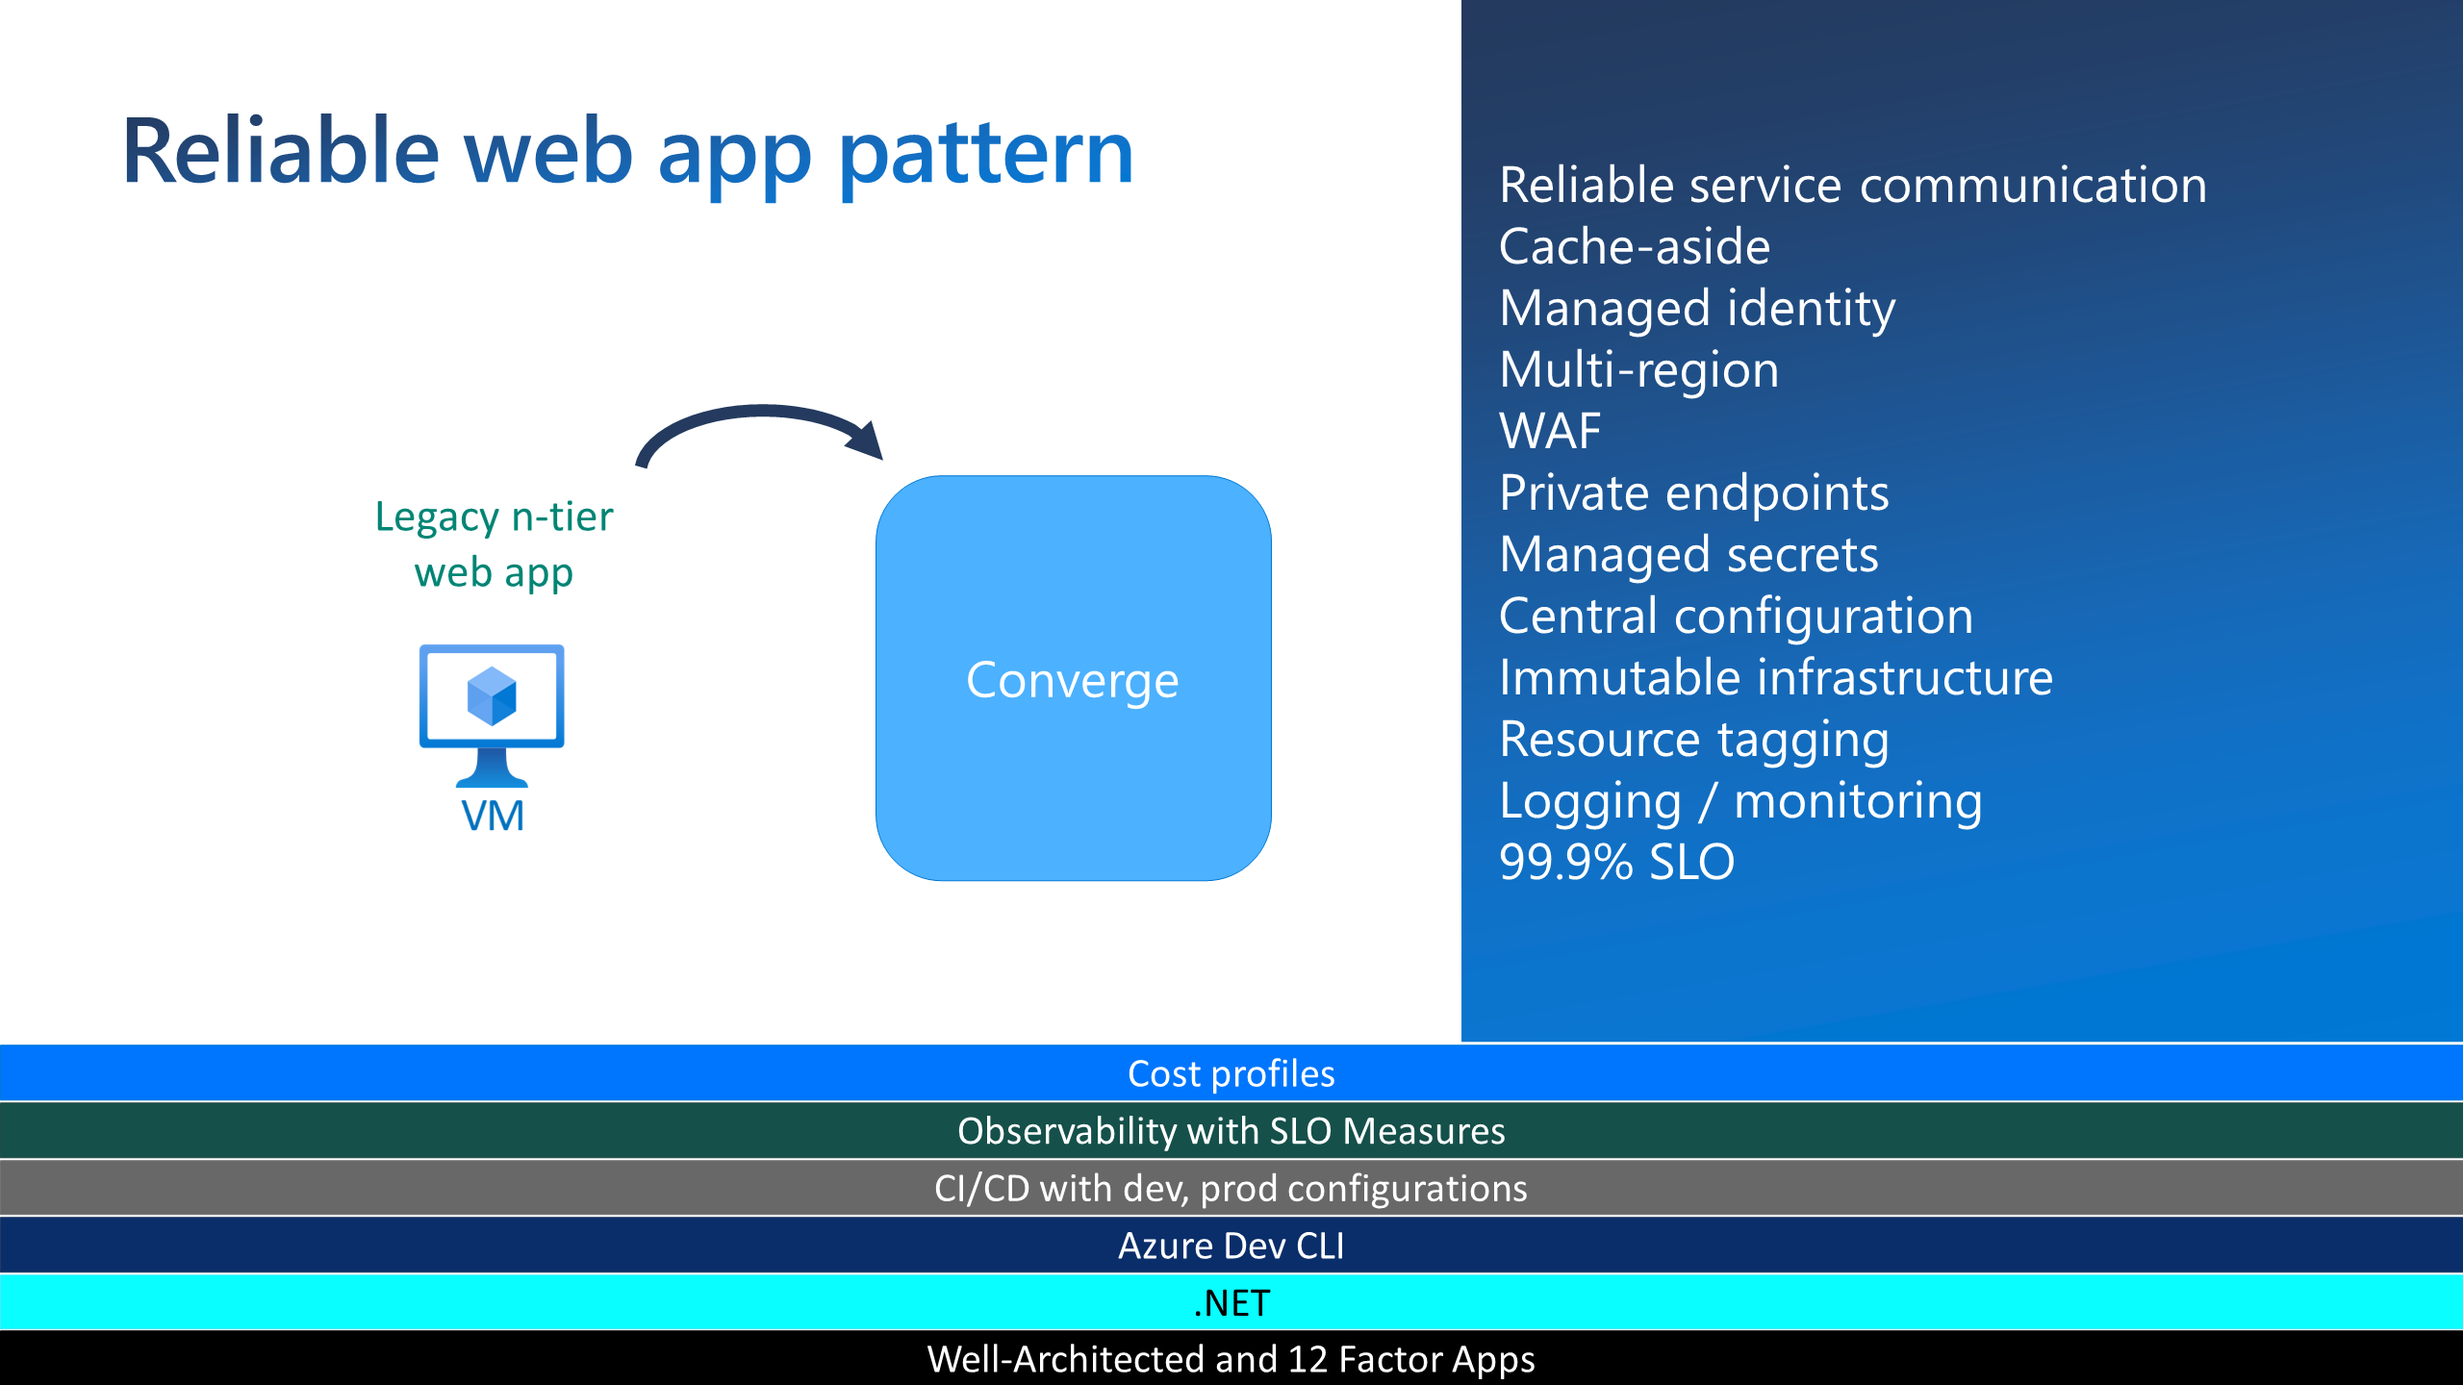
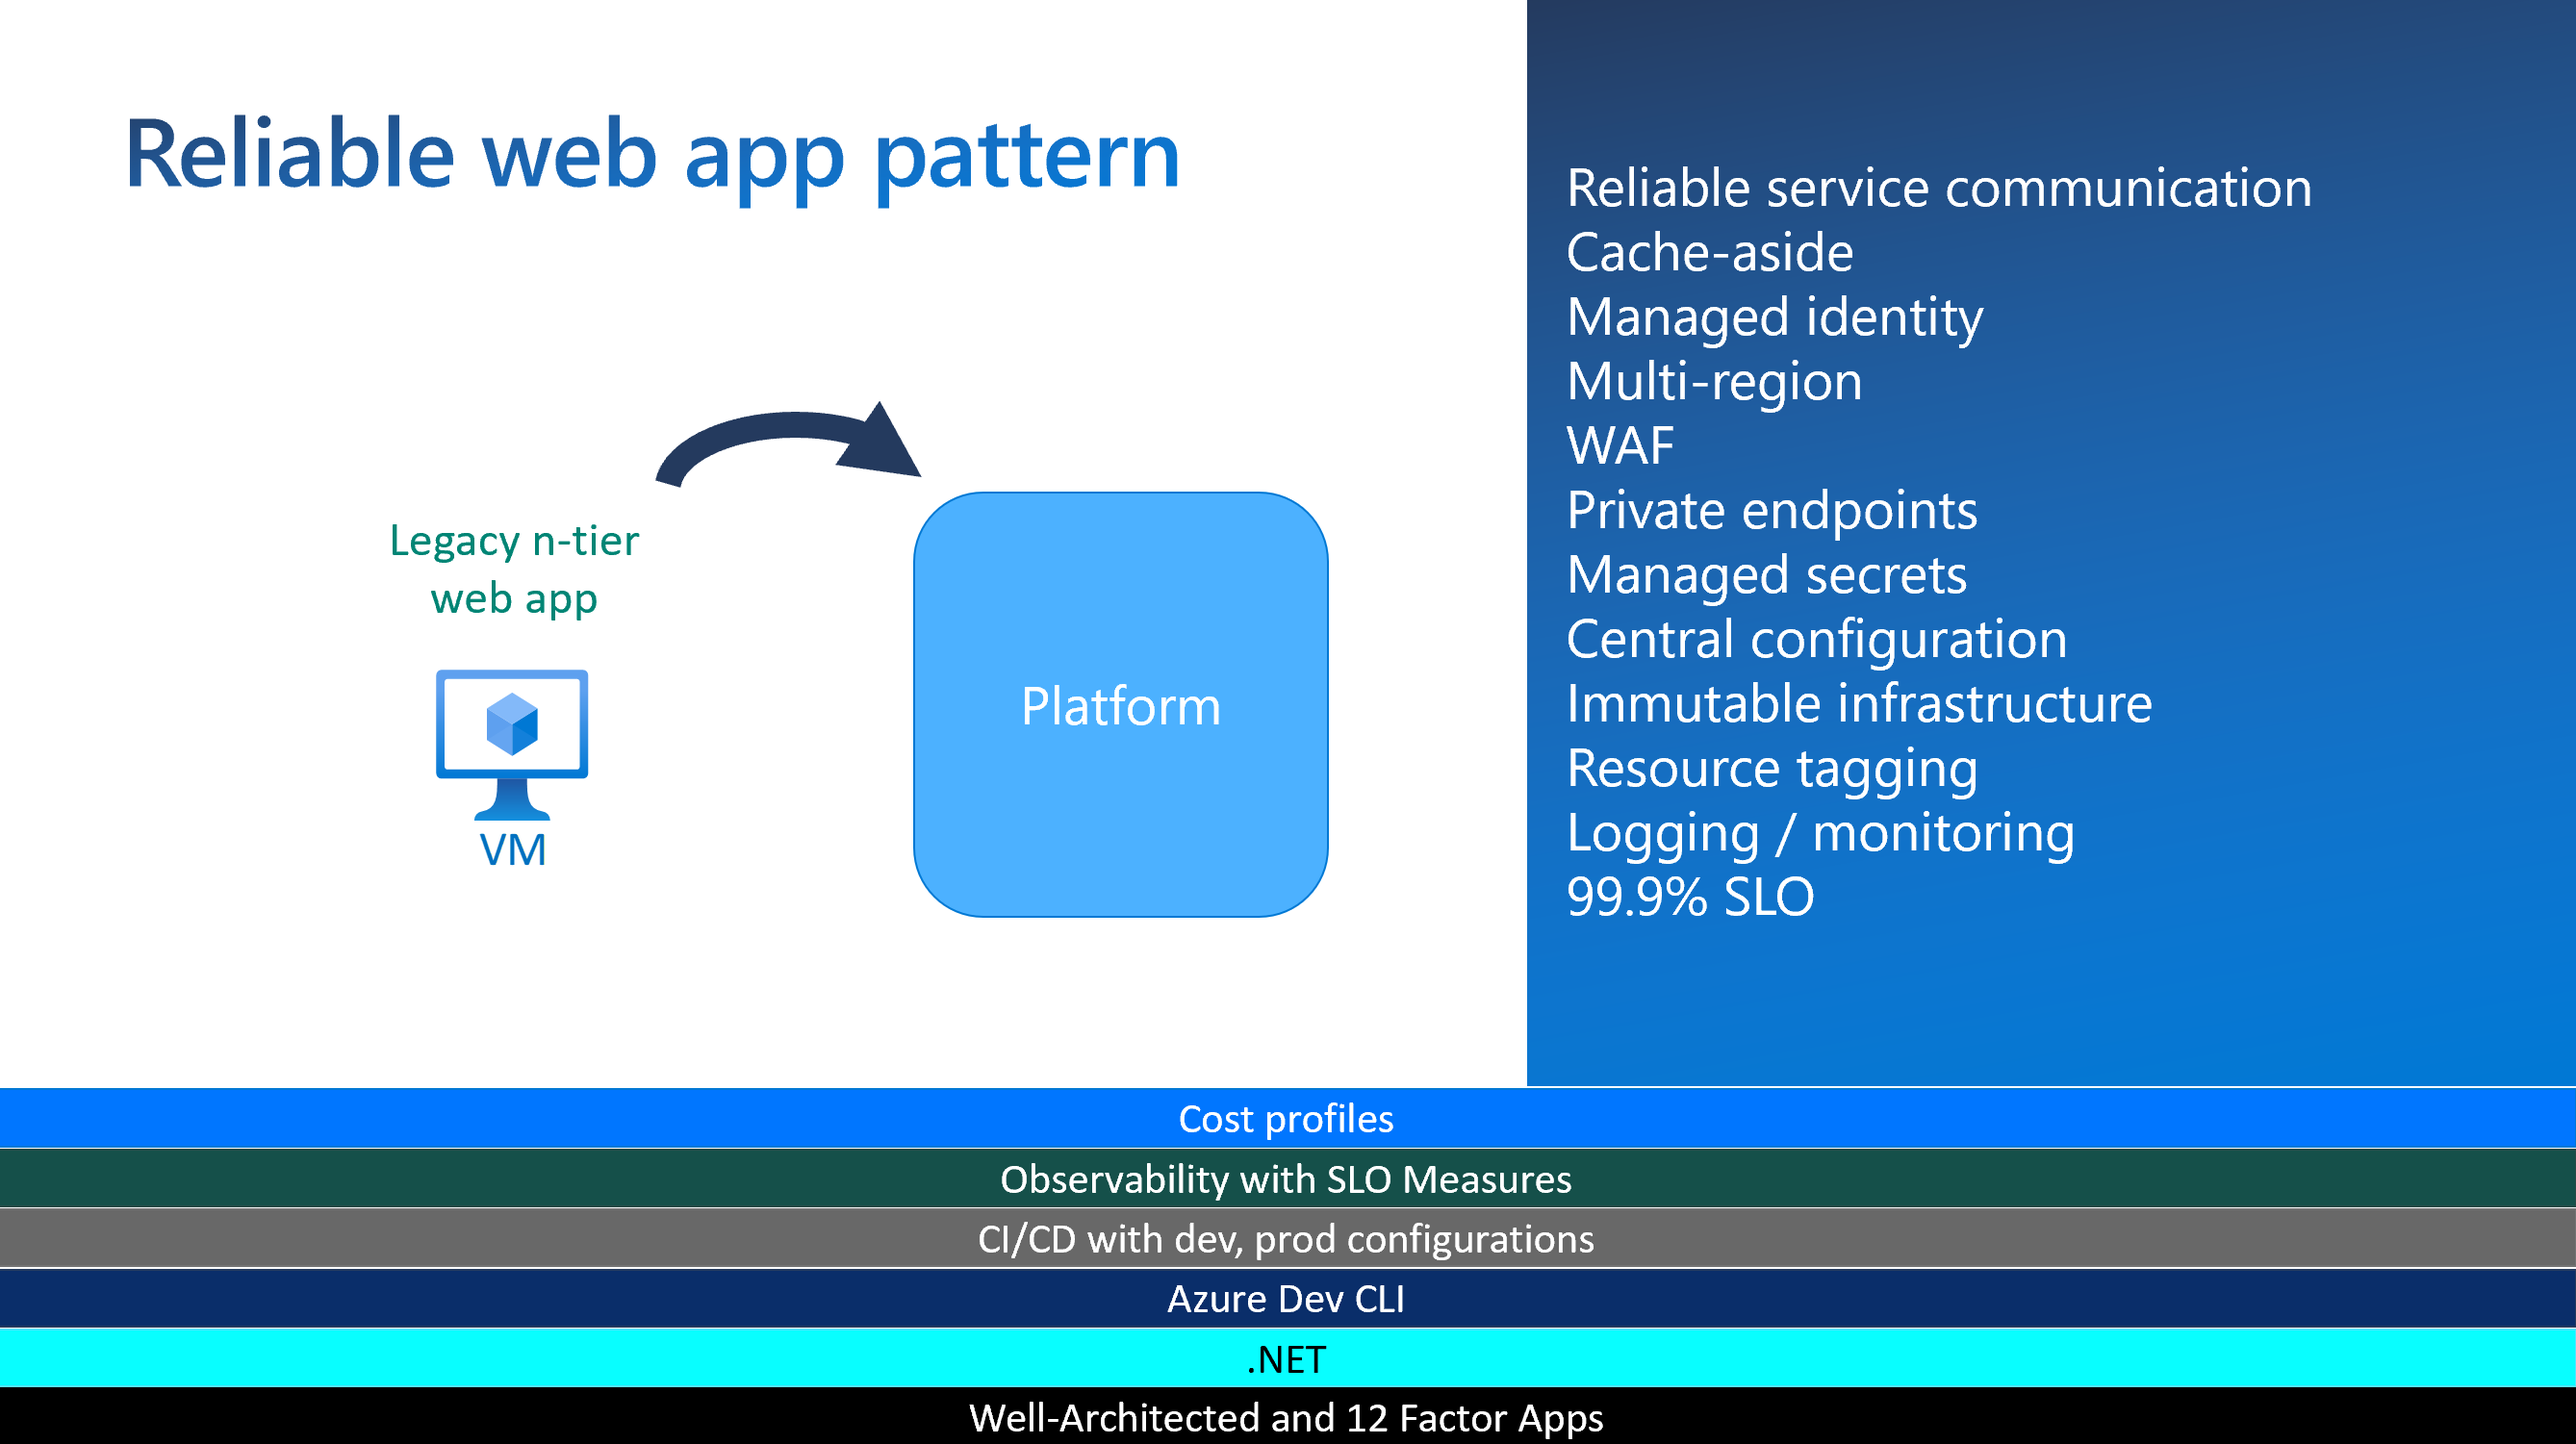
Updating language on follow ups, SLA, images in Chapter 2.

diff --git a/workshop/2 - RWA Overview/README.MD b/workshop/2 - RWA Overview/README.MD
@@ -6,7 +6,7 @@ In this workshop series, we're going to run through the principles and show how 
 
 ## Enterprise web app cloud journey
 
-Imagine a web application's evolution in the cloud as a journey. Each step in the journey has different goals. The reliable web app pattern is designed to help you take the first step in the journey. You may only need to "lift and shift" or converge your application to the cloud, and do so with a minimal amount of changes. The reliable web app pattern helps you do that.
+Imagine a web application's evolution in the cloud as a journey. Each step in the journey has different goals. The reliable web app pattern is designed to help you take the first step in the journey. You may only need to "lift and shift" or replatform your application to the cloud, and do so with a minimal amount of changes. The reliable web app pattern helps you do that.
 
 ![Enterprise web app cloud journey](../images/2-RWA%20Overview/enterprise-web-app-cloud-journey.png)
 
@@ -36,13 +36,13 @@ The reliable web app pattern is built off of 5 pillars. Each pillar is a set of 
 
 ![The Five Pillars](../images/2-RWA%20Overview/the-five-pillars.png)
 
-## Follow-up
+## Next Steps
 
-With the Application running, let's focus optimizing our application cost for our Azure deployment.
+Now that your application is up and running, it’s time to shift our attention towards optimizing the cost of our Azure deployment.
 
 [Part 3 - Cost Optimization](../3%20-%20Cost%20Optimization/README.md)
 
-If the application is not deployed, go back into the development and Azure tooling you'll need for the rest of this workshop and make sure everything is running.
+In case your application is not yet deployed, please revisit the development and Azure tooling sections of this workshop. Ensure all the necessary tools are properly set up and your application is running smoothly before proceeding.
 
 [Part 1 - Tooling Setup](../Part%201%20-%20Tooling/README.md)
 

diff --git a/workshop/8 - Clean Up/README.md b/workshop/8 - Clean Up/README.md
@@ -2,11 +2,12 @@
 
 Thank you for engaging with our workshop on RWA. We hope the chapters provided valuable insights and practical knowledge to enhance your Azure experience.
 
-### Cleaning up the cost optimization web application
+### Cleaning up Sample web applications
 
 As we conclude our journey, it’s crucial to ensure that we leave our environment clean and cost-efficient. Here’s how you can decommission the resources effectively:
 
 1. Open a PowerShell terminal.
+1. Change directory to the azd-sample from where you deployed the app `cd .\<chapter-here>\azd-sample`
 2. Run the command `azd down --force --purge --no-prompt`.
 
 You may also log on to the Azure portal, select the resource group and press **Delete Resource group**.  The resource group is named similar to **<USERNAME>-cost-rg**.
@@ -19,5 +20,7 @@ You may also log on to the Azure portal, select the resource group and press **D
 You may also log on to the Azure portal, select each resource group and press **Delete Resource group**.  There are two resource groups: **<USERNAME>-rg** and **<USERNAME>-secondary-rg**.
 
 This process leaves the app registrations used in place. You can clean these up in the Azure Portal.  Go to the Azure Active Directory blade, then **App Registrations** > **Owned applications**.  Remove each app registration associated with your username individually.
+
+## Thank you!
 
 We appreciate your dedication to learning and applying these practices. Your efforts contribute to a more sustainable and efficient cloud ecosystem. Thank you for reading, and we look forward to your continued growth and success in using the Reliable Web Apps Pattern in your next production app.

diff --git a/workshop/1 - Tooling and Deployment/README.md b/workshop/1 - Tooling and Deployment/README.md
@@ -142,9 +142,9 @@ The infrastructure-as-code implementation implements the production deployment (
 
 For more details on the architecture and workflow for the Relecloud application, read the [main instructions](../../README.md) to learn more about the application in detail.
 
-### 7. Follow-up
+### 7. Next Steps
 
-Great, now we have a functioning Application for our Relecloud Concerts company. Learn more how the Reliable Web Apps pattern makes everything work [next](../2%20-%20RWA%20Overview/README.MD). 
+Fantastic! We've successfully deployed a production-like Relecloud concerts monolithic web application to Azure. Relecloud Concerts leverages the Reliable Web App Pattern with minimal code changes, seamlessly deployed to Azure using simple steps via azd. Now, let's dive deeper and explore the patterns and best-practices used in this application. As we advance, we'll simplify things by deploying a more basic application to help illustrate these concepts clearly before reviewing them in our main app. Ready to start? Click [next](../2%20-%20RWA%20Overview/README.MD). 
 
 ### Appendix A (To be run only after completing the workshop)
 

diff --git a/workshop/3 - Cost Optimization/README.md b/workshop/3 - Cost Optimization/README.md
@@ -253,6 +253,8 @@ But in order for 2 regions to operate as one, you need a traffic manager or load
 
 And that's exactly the 99.98% uptime our management wanted.
 
-## Going Next
+For our Relecloud Concerts application, we have devised a specific strategy on how to utilize various regions to meet the Service Level Agreement (SLA). If you’re interested in understanding more about these calculations and our regional usage strategy, follow this [link](/assets/sla-calculation.md) to learn more.
 
-Now let's see how we can make our web application more resilient to failures in [Part 4 - Reliability](../4%20-%20Reliability/README.md) module.
+## Next Steps
+
+Next, we will explore how to enhance the resilience of our web application. This involves implementing strategies to ensure our application remains functional and accessible, even in the event of failures. Dive into the [Part 4 - Reliability](../4%20-%20Reliability/README.md) module.

diff --git a/workshop/7 - Performance Efficiency/README.md b/workshop/7 - Performance Efficiency/README.md
@@ -204,7 +204,7 @@ The reference implementation uses a single Azure Cache for Redis instance to sto
 1. Open the **CartController.cs** file found in the **Controllers** folder of the **Relecloud.Web** project.
 1. Browse to the `SetCardData` method. Here you can see the session data get set. It seamlessly uses Azure Cache for Redis when available.
 
-## Cleaning up
+## Next Steps
 
 Thank you for attending this workshop.  We hope you learned something and feel more comfortable tackling the patterns that are used in enterprise web applications. 
 

diff --git a/workshop/6 - Operational Excellence/README.md b/workshop/6 - Operational Excellence/README.md
@@ -187,6 +187,6 @@ this.telemetryClient.TrackEvent("AddToCart", new Dictionary<string, string> {
 
 You can find the telemetry from TelemetryClient in the **Azure portal**. Go to **Application Insights**. Under **Usage**, select **Events**. Click on **View More Insights** and filter by the **Event** to see the count.
 
-## Going Next
+## Next Steps
 
 Next up find out how to keep your application running fast with the [Part 7 - Performance Efficiency](../7%20-%20Performance%20Efficiency/README.md) module.

diff --git a/workshop/5 - Security/README.md b/workshop/5 - Security/README.md
@@ -250,6 +250,6 @@ You should use private endpoints to provide more secure communication between yo
 
 This improved network security is transparent from the code perspective. It doesn't involve any app configuration, connection string, or code changes.
 
-## Going Next
+## Next Steps
 
 Next up learn about how to keep our application running smoothly in the [Part 6 - Operational Excellence](../6%20-%20Operational%20Excellence/README.md) module.

diff --git a/workshop/4 - Reliability/README.md b/workshop/4 - Reliability/README.md
@@ -225,6 +225,6 @@ You can implement the circuit breaker pattern with Polly as follows:
 
     ![Screenshot of circuit breaker exception](../images/4-Reliability/circuit-breaker.png)
 
-## Going Next
+## Next Steps
 
 Next up let's look at how to make sure our application stays secure in the [Part 5 - Security](../5%20-%20Security/README.md) module.
